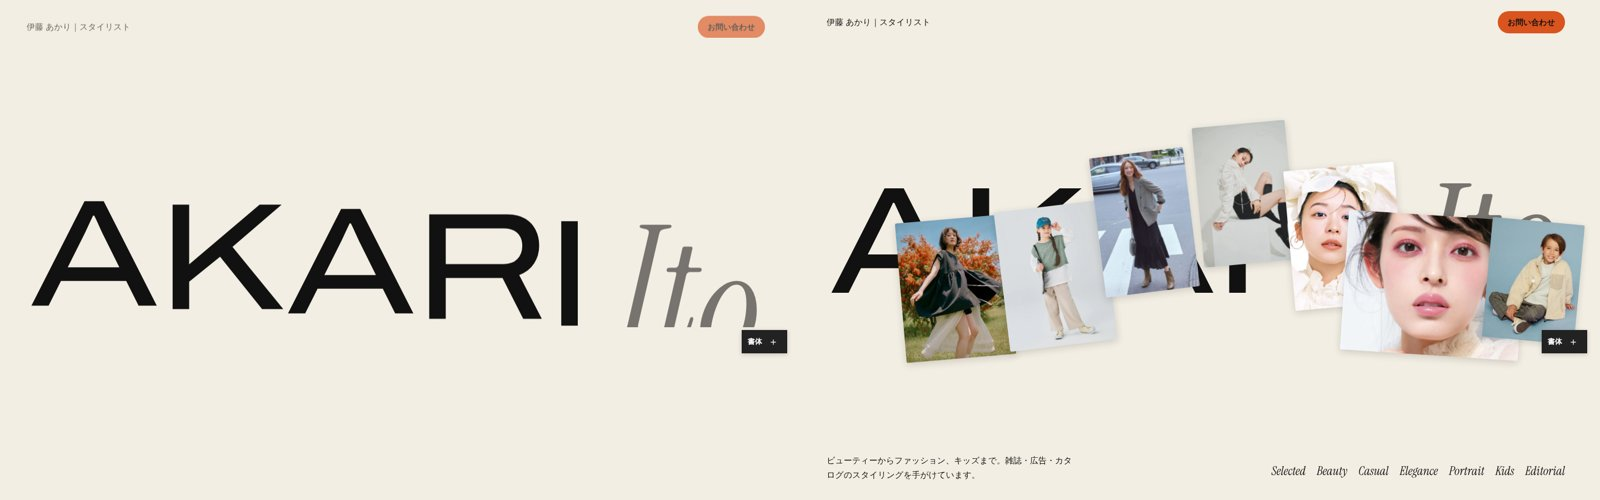
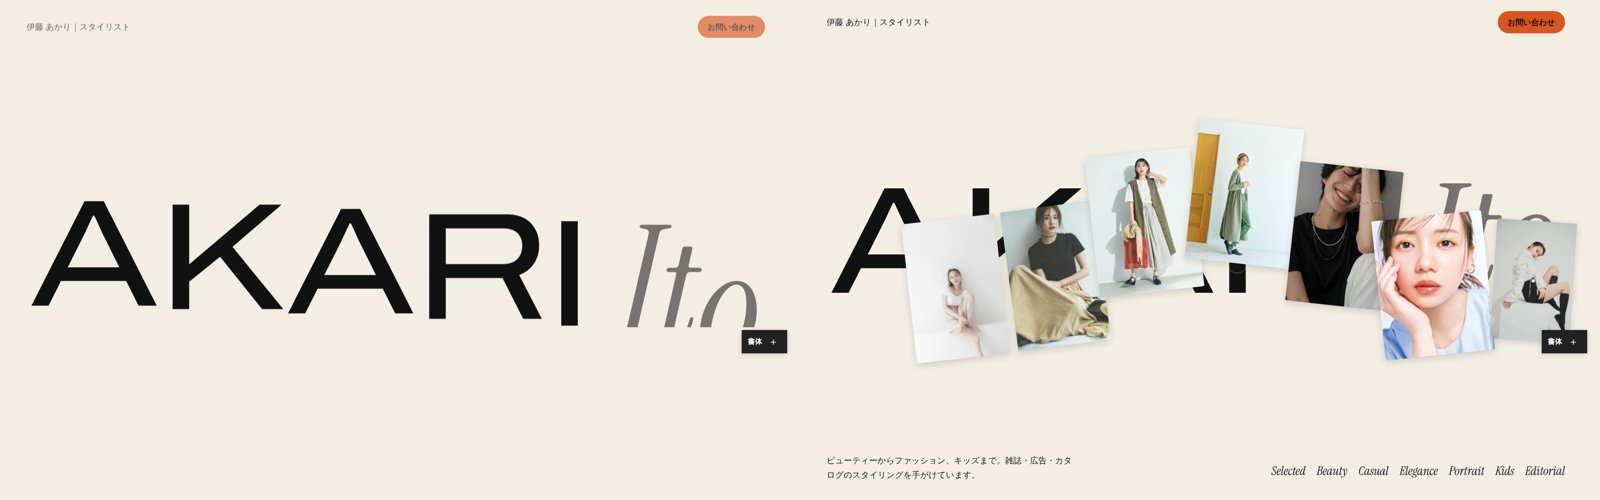
Add 13E: image trail over the name, pinned horizontal genre gallery, cursor, curtain
Claude-Session: https://claude.ai/code/session_01W4x6f94hkPV3szVtr9HUF5

Changed region(s): [[0.5625, 0.24, 1.0, 0.75]]

diff --git a/index.html b/index.html
@@ -35,6 +35,7 @@
     <p class="lead">11A〜11D は、参考にしたサイトの並べ方・動き・操作を調べて（REA の手順）、伊藤さんの写真と文章で作り直した版です。パソコンとスマホで見え方が違うものがあります。</p>
     <p class="lead">13A〜 は、写真を切り片で組み直したポスターをトップにする新しい版です。</p>
     <a class="new" href="13a.html"><p class="plan__id">13A</p><p class="plan__name">1枚の写真を、そのままの半分と、四角い切り片で組み直した半分で見せるポスター</p><p class="plan__desc">PC は左右、スマホは上下。←→・スワイプで次のポスター。ポスターを押すとそのジャンルの一覧。参考：小红书「抽象解构艺术」。</p><span class="plan__go">13A を開く →</span></a>
+    <a class="new" href="13e.html"><p class="plan__id">13E</p><p class="plan__name">大きな名前をなぞると作品写真が落ちていく。下へ進むと、ジャンルのカードが横に流れる</p><p class="plan__desc">カーソルは作品の上で「VIEW」に。開くときは色の幕が下から上がる。スマホは横にスワイプ。参考：審美図鑑「8 個の高級な網頁交互」。</p><span class="plan__go">13E を開く →</span></a>
     <a class="new" href="13f.html"><p class="plan__id">13F</p><p class="plan__name">女性服の公式サイトの版式。冷たい極簡（COLD）と、暖かくやわらかい（WARM）を切り替えて見比べ</p><p class="plan__desc">上の「COLD｜WARM」で切り替え。ジャンルごとに大きな細い大文字の見出しと写真4枚。参考：審美図鑑「女装官網 style list」。</p><span class="plan__go">13F を開く →</span></a>
     <p class="lead">12A〜 は、調べた参考サイトの部品どうしを組み合わせた版です（できた順に増えます）。どの版も、ジャンルの一覧・写真の拡大・お問い合わせは同じ使い方です。画面の右にある「書体を選ぶ ＋」を押すと、文字の書体を見比べられます（黒い帯をつかむと動かせます）。</p>
     <!--12-->

diff --git a/verify/specs/13e.md b/verify/specs/13e.md
@@ -44,5 +44,53 @@
 | R4 | 描いたあとに跳ばない（画像の大きさを SIZES で予約） | 画像の読み込み前後でカードの位置の差 0 |
 | R5 | 最後の行が fontpick.js、`.fp` を無視 | — |
 
-## 検証の結果
-（作ったあとに書く）
+## 検証の結果（2026-11-28、Playwright Chromium、port 8783。1440×900／390×844 DPR2 タッチ／320×568 DPR2 タッチ、ほかに 768・1024 幅と reduce）
+| id | 測った値 | 結果 |
+|---|---|---|
+| H1 | "AKARI"（Archivo 幅 125%）＋"Ito"（Instrument Serif 斜体）1 行。文字の幅 1440：約 1317px（91%、273.8px × 4.811）／390：16–371px（91%）／320：16–301px（89%）。はみ出し 0 | 合格 |
+| H2 | 3 幅とも「伊藤 あかり｜スタイリスト」下端 54px 前後、お問い合わせ（mailto）下端 56px・高さ 40（PC）／44（スマホ） | 合格 |
+| H3 | 字の間 30ms、1 字 900ms、最後の字は 330ms 開始 → 1.23 s で止まる。reduce では動きなし | 合格 |
+| T1 | 1440px の直線で 7 枚 | 合格 |
+| T2 | 中心と鼠標の差 0px。0.97 倍に達するまで 163ms、消え終わり 1354ms | 合格 |
+| T3 | 高さ 252px＝画面の 28%、傾き −4.6°（実装は ±3–8° の乱数）、新しいものほど z が上 | 合格 |
+| T4 | 390：自動で 7 枚出て消える（2.6 s）。指で名前を横になぞると 4 枚。名前の上から縦に指で動かして scrollY 285（名前の外と同じ） | 合格 |
+| T5 | 縦横比の差 0.1%（0.7302 対 0.7310）、src は images/thumbs/、誌面（images/pages）は混ぜない | 合格 |
+| K1 | 1440：html.cc・cursor:none。390／320 タッチ：光標の要素の不透明度 0、cc なし | 合格 |
+| K2 | 輪の残り距離：100ms で 42.5%、200ms で 12.7%、400ms で 0% | **不合格**（基準 15–35% は私の計算違い。卡片どおり power3.out 0.4 s にすると 100ms 時点は 1−0.75³＝42%。基準は緩めず不合格のまま記録。動きは参照どおり） |
+| K3 | カードの上で class "view"、丸の拡大率 1（輪のとき 0.409 → 2.4 倍）、点 0、VIEW 表示 1。一覧の写真の上では墨の丸に米白の字 | 合格 |
+| K4 | .fp の上で光標 0 表示、.fp は cursor:default、帯は move のまま | 合格 |
+| G1 | 区間の 0／25／50／75／100% で固定の画面の top 0、track の x 0 → −411 → −825 → −1238 → −1651 | 合格 |
+| G2 | 7 枚、高さ全部 522px、縦横比の差 0（枠＝写真の比） | 合格 |
+| G3 | 「02 Beauty／ビューティー　13点」など、枚数は一覧の数と一致 | 合格 |
+| G4 | 0%：1.000（他 0.900）、50%：0.997、100%：1.000。カードの間の位置では 0.95 前後が 2 枚 | 合格 |
+| G5 | 01 → 03 → 04 → 06 → 07 | 合格 |
+| G6 | 一気に回したあと止まるまで 1096ms | 合格 |
+| G7 | 390：帯の scrollWidth 2465（幅 390）、ページの横スクロール 0。320 も 0。数・大きさは中央のカード | 合格 |
+| W1 | 覆い終わり 386ms、数 353ms 開始 → 100 が 1303ms（950ms）、上へ抜け始め 1820ms → 抜け終わり 2253ms（433ms）。100 で 517ms 止まる（参照は約 350ms） | 合格 |
+| W2 | 見出しの clip-path が inset(100% 0 0) → 85.8% → 73.1% … → inset(0) | 合格 |
+| W3 | Esc で幕が上から覆って下へ抜け、一覧が隠れ、scrollY の差 0、# なし。戻る（ブラウザ）も同じ | 合格 |
+| C1 | 「— Beauty —」、PC 1 行目 3 枚・スマホ 2 枚、見開き 2 枚が 706px（2 列ぶん）、縦横比の差 ≤0.08%。THUMBS が無い 1 枚（biteki-glow-cream）だけ元の画像 | 合格 |
+| C2 | 01→02（→キー）→03（›）、外を押す・×・Esc・戻るで一覧へ。PC で誌面を押すと 1136px（元の幅）。スマホのスワイプ 01→02 | 合格 |
+| C3 | ほかの 6 ジャンル＋「お仕事のご相談・お問い合わせ」mailto:info@example.com | 合格 |
+| C4 | 新しく `13e.html#beauty` を開くと「— Beauty —」。ページを開いたまま # を書き換えても開く。× で # が消えて最初の画面 | 合格 |
+| P1 | 米白 #F3EEE3・墨 #111111・焦橙 #D9541E のみ（濃淡は墨・米白の透明度）。焦橙はお問い合わせの 3 つのボタンだけ | 合格 |
+| P2 | 墨/米白 16.3、墨 62%/米白 5.03、Ito（墨 55%、大）4.01、米白 62%/墨 6.73、墨/焦橙（ボタンの字）4.71、焦橙と米白の境 3.47 | 合格 |
+| M1 | reduce：拖尾 0、光標なし、画廊は折り返しの並び（固定なし、position relative）、カードを押すとすぐ一覧（clip inset(0)、写真の不透明度 1） | 合格 |
+| M2 | Tab：名前 → お問い合わせ → 7 ジャンル → カード 7 枚。#portrait に Tab で来ると画廊が送られて数 05、カードは画面内（730–1107px）、pin の scrollLeft 0。Enter で「— Portrait —」 | 合格 |
+| R1 | 文章は PROFILE（nameJa・nameEn・lead・specialty・email）と SELECTION（en・title・枚数）だけ。clients の媒体名・ブランド名は出さない | 合格 |
+| R2 | お問い合わせ 40／44px、ジャンルの文字ボタン 42px、× 40px、‹ › 52px（スマホ）。横スクロール 0（1440／1024／768／390／320 の各状態）。重なり：目で見て無し（fontpick の小窓は除く） | 合格 |
+| R3 | コンソールのエラー 0、読み込み失敗 0、外への通信 0 | 合格 |
+| R4 | 画像を 1.5 s 遅らせても、読み込み前後でカードの位置・大きさ・画廊の位置が同じ | 合格 |
+| R5 | 最後の行が fontpick.js。.fp の上でキー・光標を扱わない | 合格 |
+
+合格 34／不合格 1（K2）／測れない 0。
+
+## 自分で決めたこと
+- 配色は 2+1 の 1 組目（米白・墨・焦橙）。3 組目（炭灰・沙・電光藍）は藍の上の文字が 4.5:1 に届かないので外した。
+- カードの写真は各ジャンルの items の 1 枚目（Selected は lead の 1 枚目）。Beauty の gallery の 1 枚目は誌面なので使わない。
+- 画廊の「焦点」は進み具合に合わせて 1 枚目の中心から最後の中心へ動く（大きいカード＝数えるカード）。
+- スマホの画廊は固定せず、指で横に送る帯（snap、中央で 1）。スマホの最初の画面は中身の高さにして、画廊の頭が最初の画面に入るようにした。
+- スマホの拖尾：読み込み 1.1 s 後に 1 回だけ自動で 7 枚、指で名前を横になぞると出る（間隔 画面幅 / 5）。
+- 光標は reduce では出さない。一覧の写真の上の VIEW は墨の丸（米白の地に米白の丸が消えるため）。
+- 戻るときの幕は数なしで上から覆って下へ抜ける（0.85 s）。
+- 無縫跑馬灯は入れない（招牌は拖尾と画廊で足りる）。

diff --git a/verify/investigations/13e.md b/verify/investigations/13e.md
@@ -83,3 +83,10 @@
 - 「LOADING · …」は作り物の言葉なので出さない。代わりに SELECTION の英語名と日本語名と枚数。
 - 「SCROLL ↓」「MOVE YOUR MOUSE」も出さない。画廊の左上のラベルは PROFILE.specialty。
 - 画廊の数は参照と同じく 1 枚目から始める。中央に近いカードを大きくすると、最初は 2 枚目が大きく「01」と食い違うので、「焦点」を進み具合に合わせて左端のカードの中心から右端のカードの中心へ動かし、焦点に一番近いカードを 1、離れるほど 0.9、数もそのカード（自分の工夫、参照には無い）。
+
+## 比べたもの：Codrops「Image Trail Effects」（tympanus.net/codrops/?p=42696）
+- 作る途中で調整役から、Codrops の拖尾デモ（6 種）を下敷きに使ってよいと連絡があった。demo1 の流れを読んで比べた：遅れて追う点に画像を出し、0.9 s かけて鼠標の位置へ滑らせ、0.4 s から 1 s かけて薄く・0.2 倍に縮める。
+- 参照の動画（15fps）では、画像は鼠標の位置でその場で 0→1 に開き、約 1 s 止まってから消える（滑らない）。なので Codrops の動きは使わず、自分の実装（参照から量った値）のまま。Codrops のコードは 13e.html に入れていない。
+
+## B8（独立の再確認）について
+- この作業では子の審査役を立てていない。代わりに状態ごとの画面写しを 3 幅で撮って自分で見た（`verify/investigations/13e/` の 6 枚）。依頼主か別の審査役に見てもらう余地が残る。
